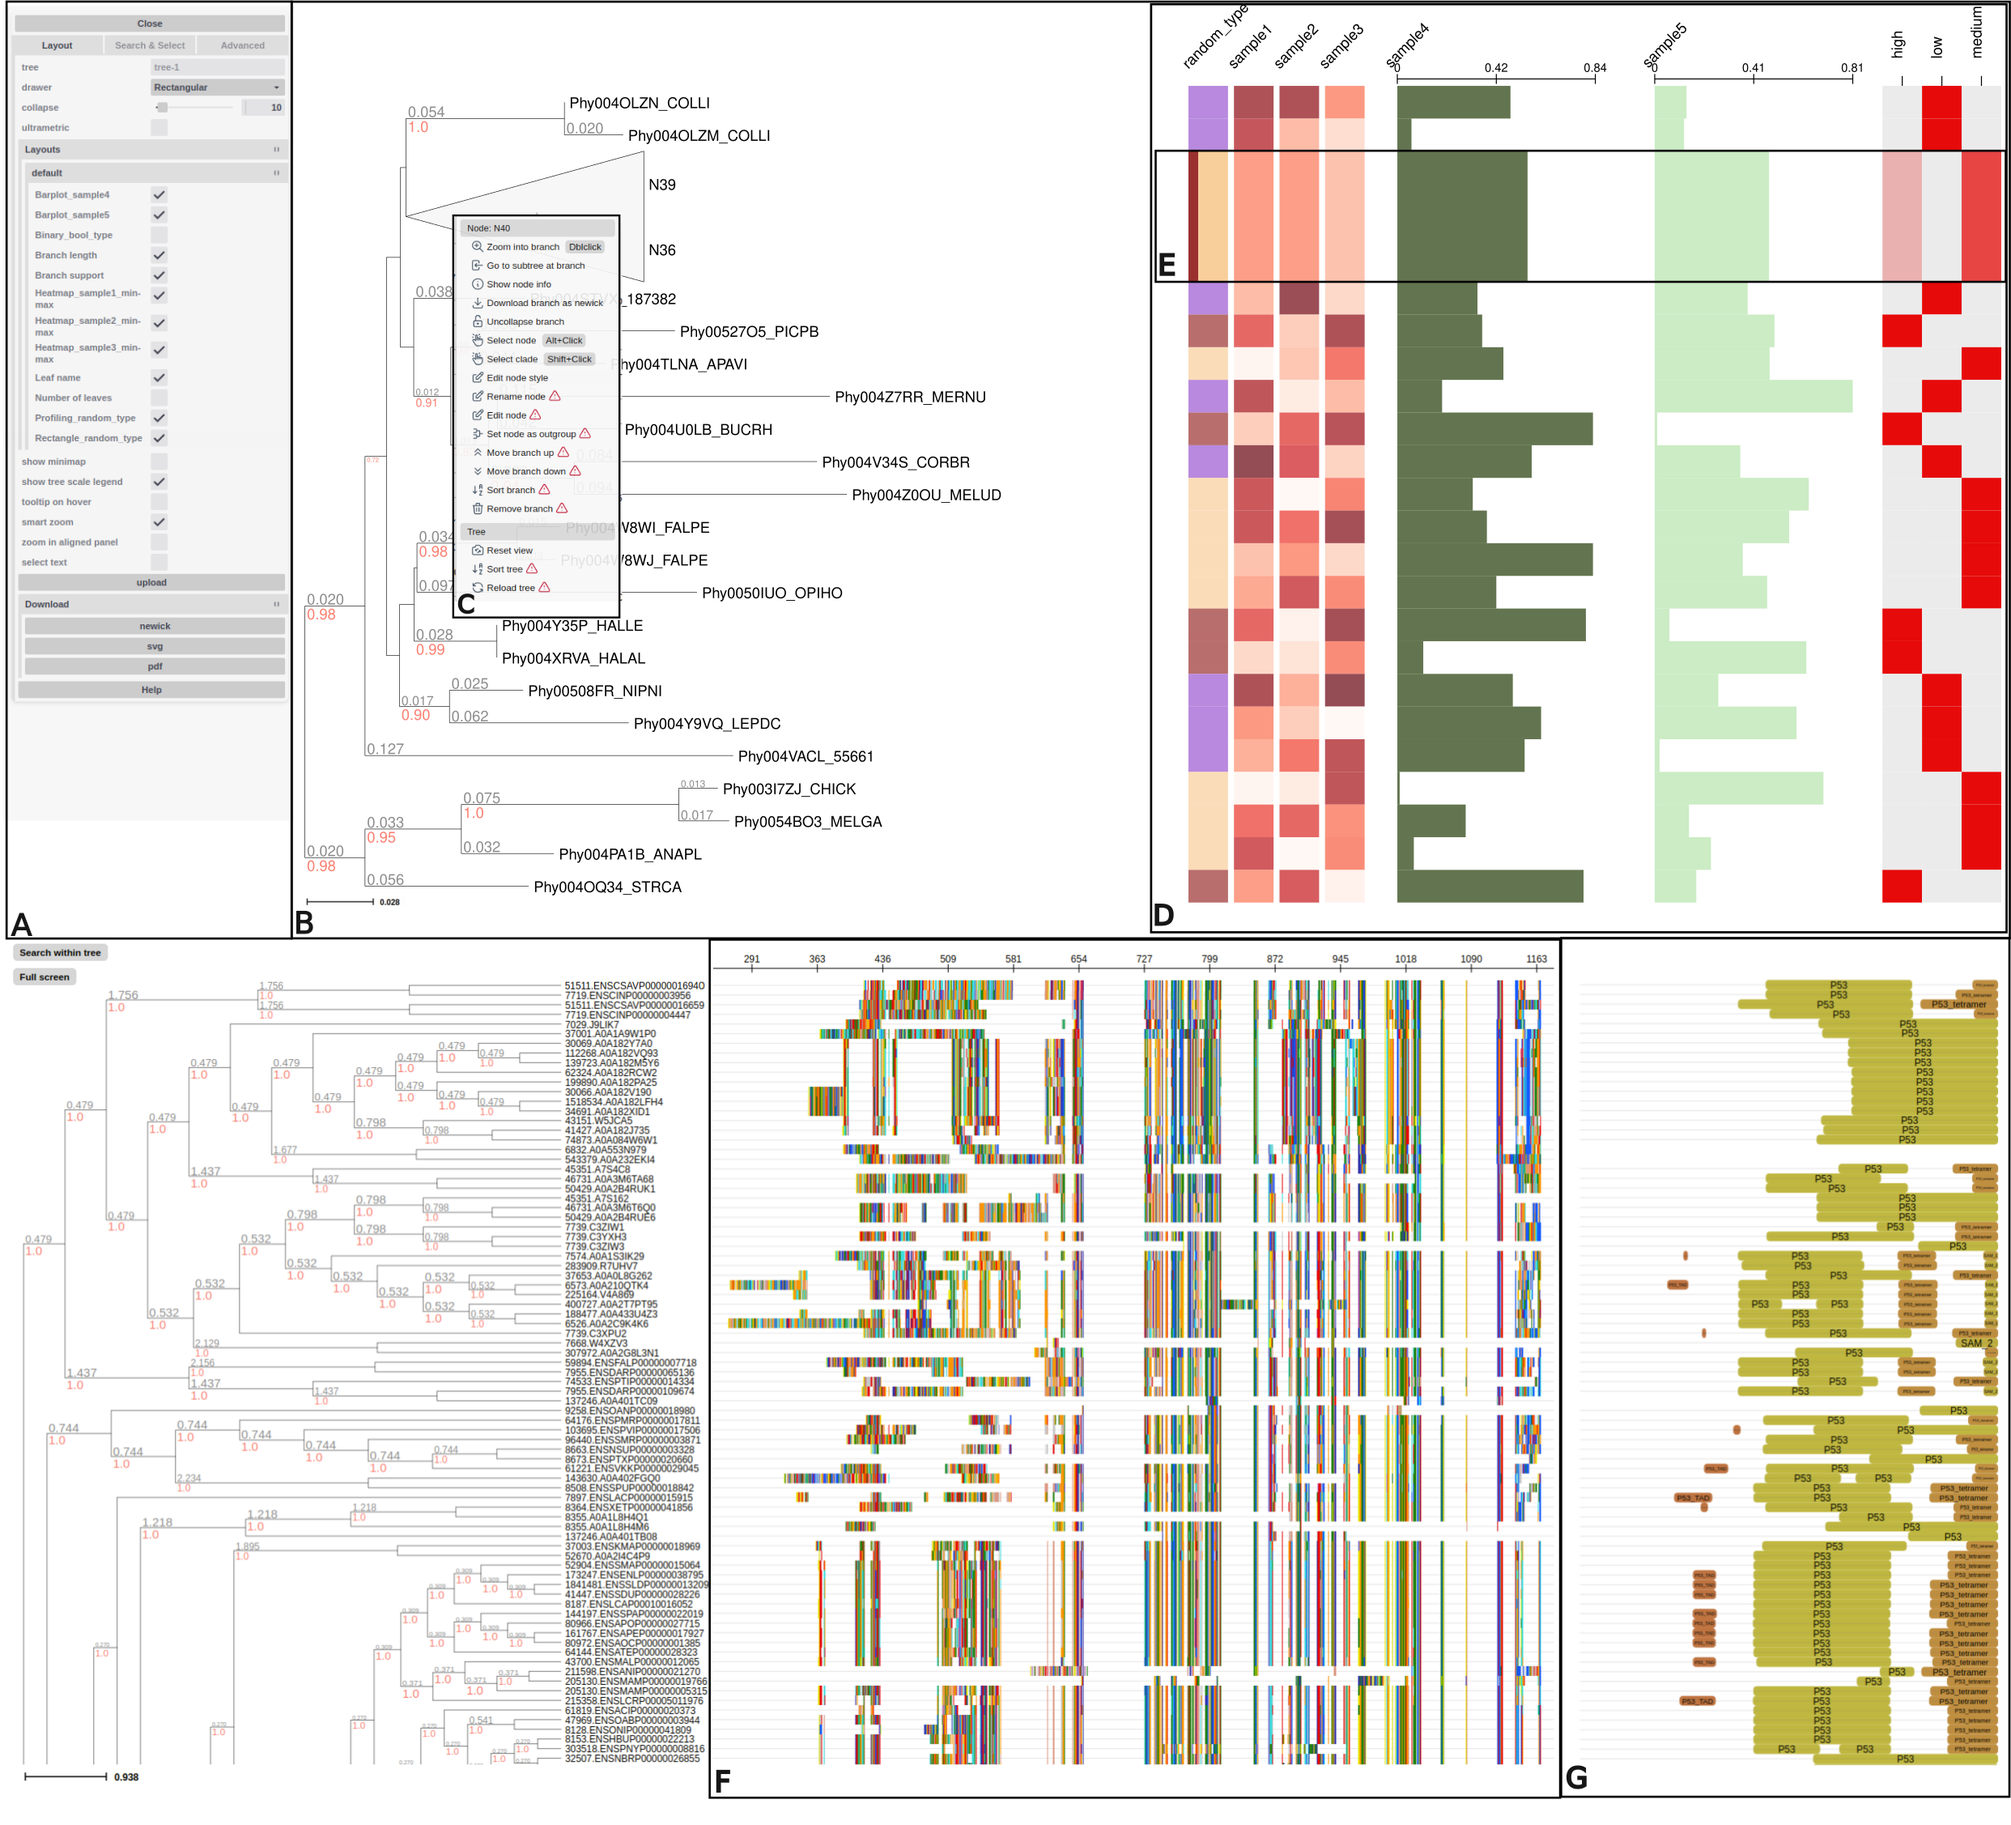
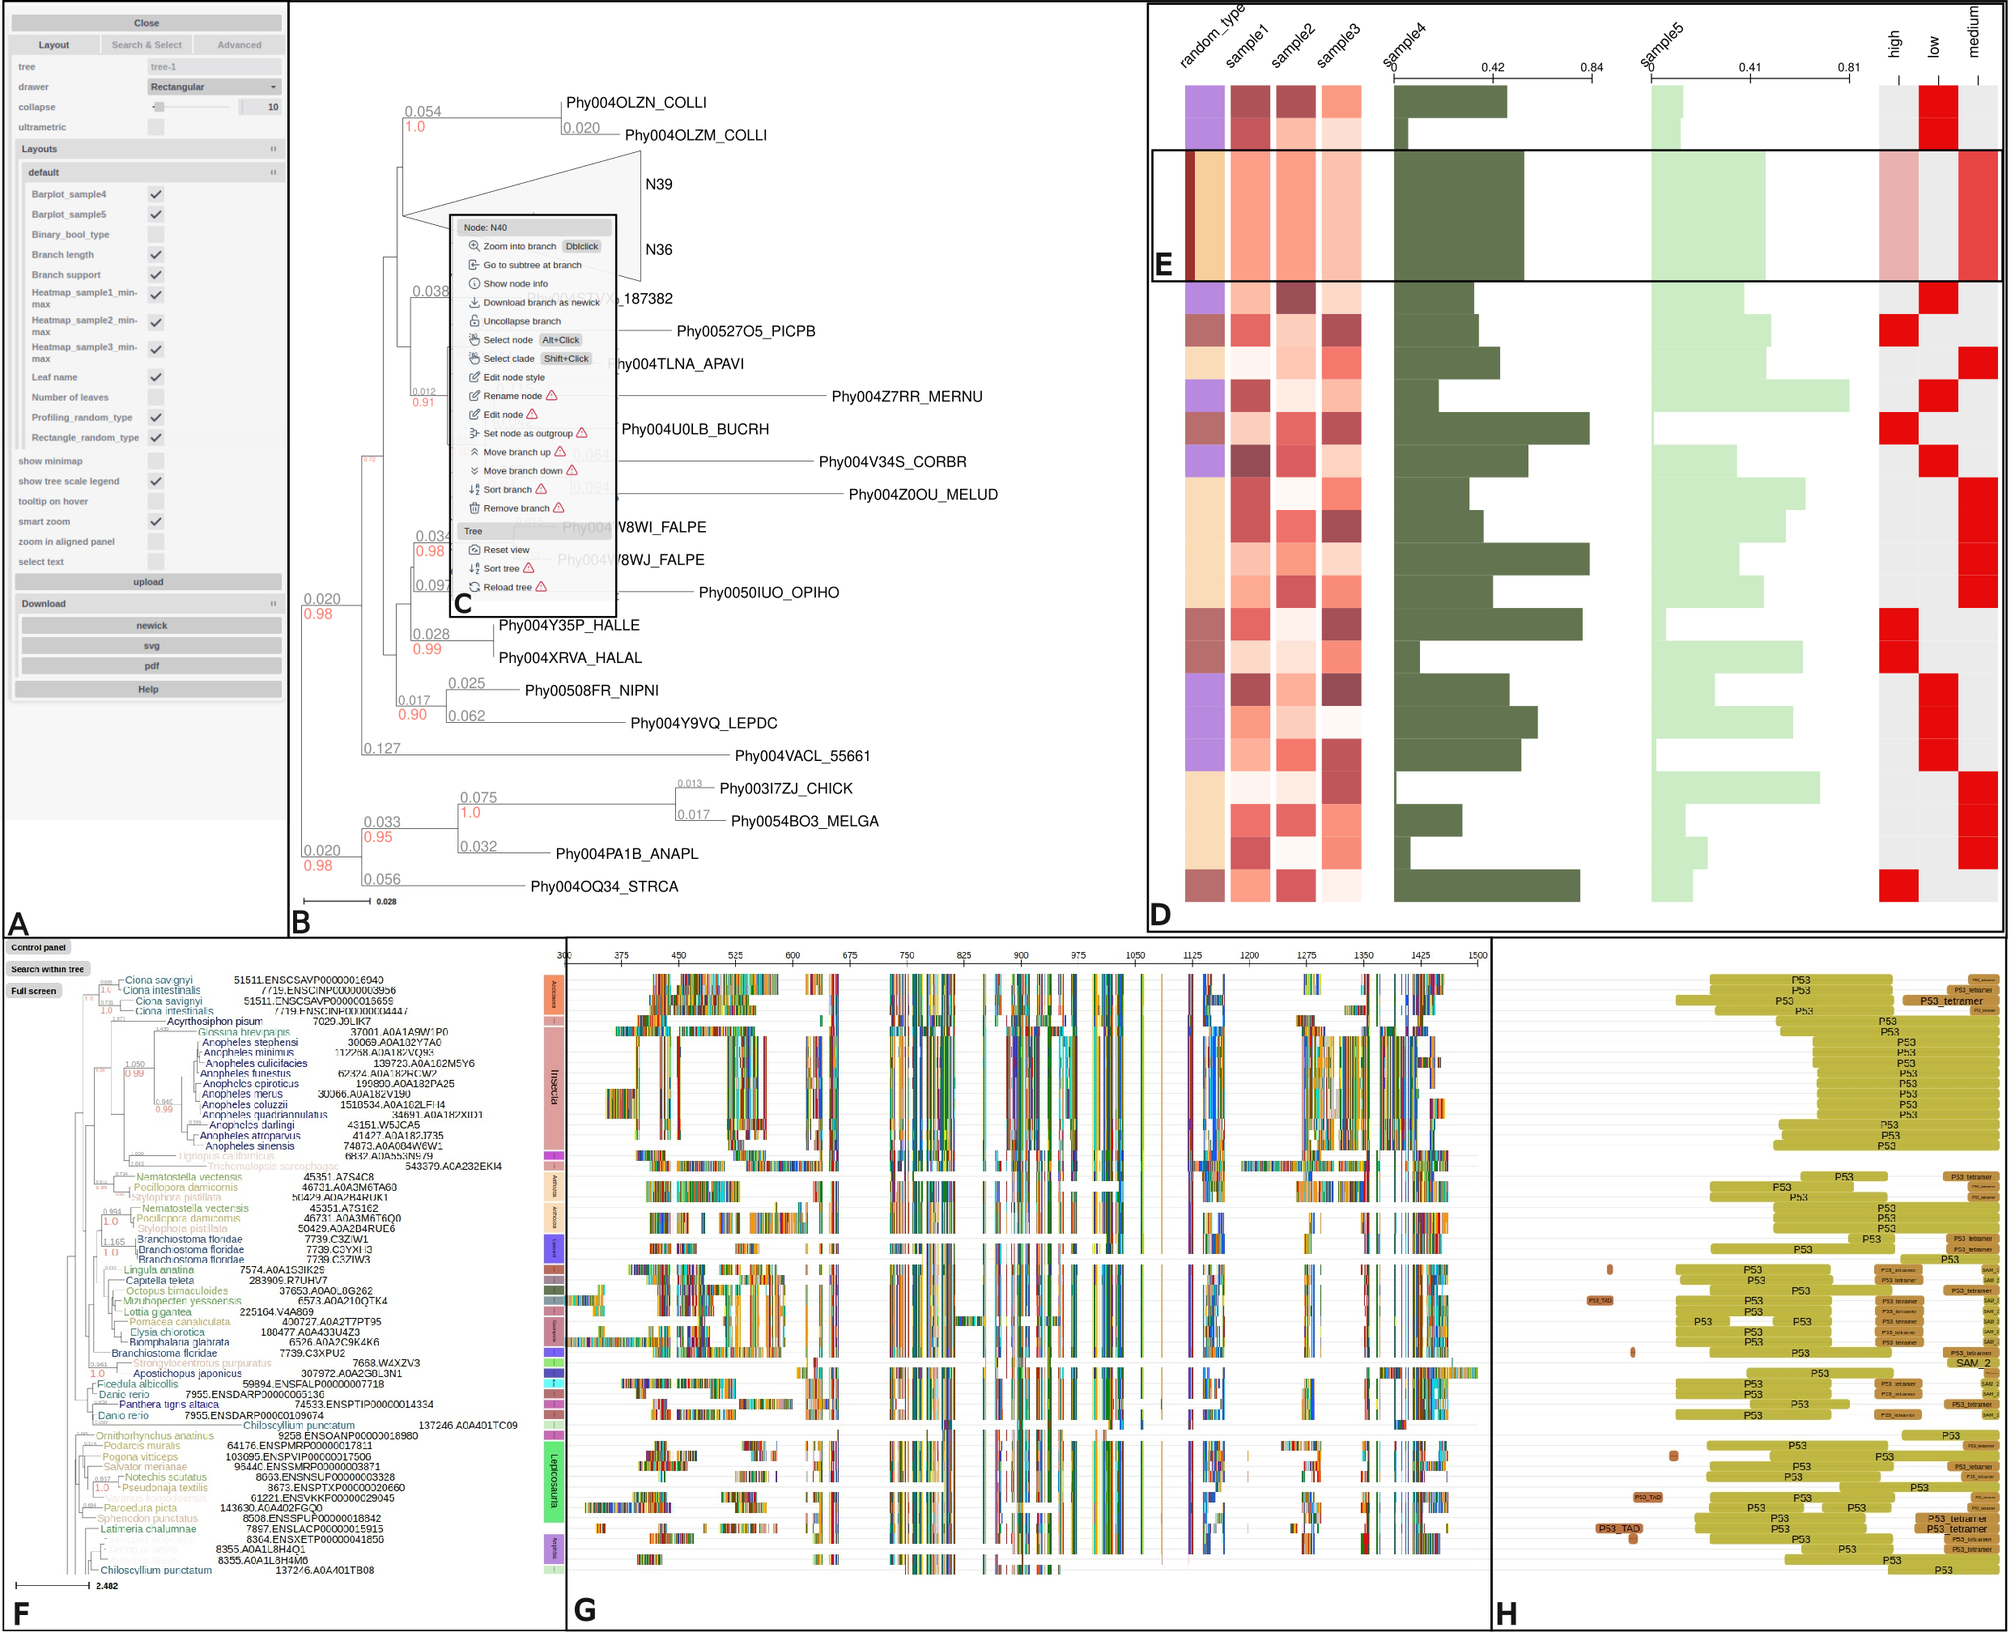
update

diff --git a/README.md b/README.md
@@ -36,27 +36,44 @@ bash run_fig1_example2.sh
 ```
 ![TreeProfiler general overview](https://github.com/dengzq1234/treeprofiler_paper/blob/main/fig1_general/fig1_general.png?raw=true)
 
-# Figure 2 Visualization of emapper examples 
-In `fig2_emapper/`， we prepared the data and execution command line to recreate the visualization session in Figure 2
+# Figure 2 Visualization of POR_N domain family examples 
+In `fig2_POR_N/`， we prepared the data and execution command line to recreate the visualization session in Figure 2
 
 ```
-cd fig2_emapper/
+cd fig2_POR_N/
 ls
-fig2_emapper.png  nifH.faa.aln  nifH.nw  nifH.out.emapper.annotations  nifH.out.emapper.pfam  run_fig2.sh
+fig2_POR_N.png             mafft_POR_N_trim.tree    out.emapper.pfam
+mafft_POR_N.fa.aln.tar.gz  out.emapper.annotations  run_fig2.sh
 ```
 
+To recreate the annotation and visualization, please run the folloing demo:
+```
+tar -xvf mafft_POR_N.fa.aln.tar.gz
+
+treeprofiler annotate \
+-t mafft_POR_N_trim.tree \
+--emapper-annotation out.emapper.annotations \
+--alignment mafft_POR_N.fa.aln \
+--emapper-pfam out.emapper.pfam \
+--consensus-cutoff 0 \
+--taxon-column name \
+--taxadb ncbi \
+--taxon-delimiter . \
+--taxa-field 0 \
+-o .
+
+treeprofiler plot \
+-t mafft_POR_N_trim_annotated.ete \
+--taxonrectangle-layout \
+--profiling-layout KEGG_ko \
+--domain-layout
+```
 You can choose to executate the visualization via command-line using the bash script `run_fig2.sh`
 ```
 bash run_fig2.sh
 ```
 
-Or activate the `treeprofiler-desktop`
-```
-treeprofiler-desktop
-```
-And then click " EggNOG Annotation Example" to start the annotation and visualization interactively
-
-![TreeProfiler emapper  overview](https://github.com/dengzq1234/treeprofiler_paper/blob/main/fig2_emapper/fig2_emapper.png?raw=true)
+![TreeProfiler emapper  overview](https://github.com/dengzq1234/treeprofiler_paper/blob/main/fig2_POR_N/fig2_POR_N.png?raw=true)
 
 # Figure 3 Visualization of motus reference tree with habitat relative abundance matrix
 In `fig3_motus_full_habitat/`， we prepared the data and execution command line to recreate the visualization session in Figure 3
